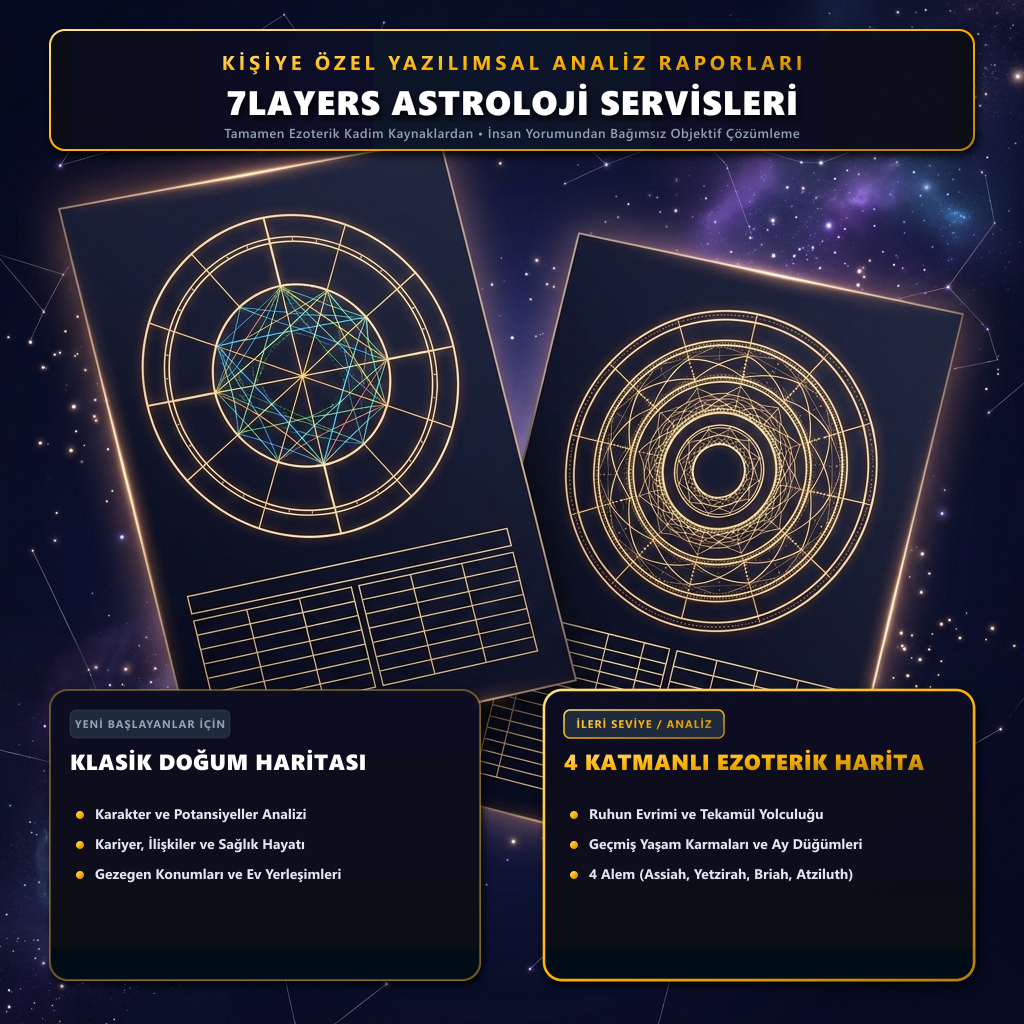
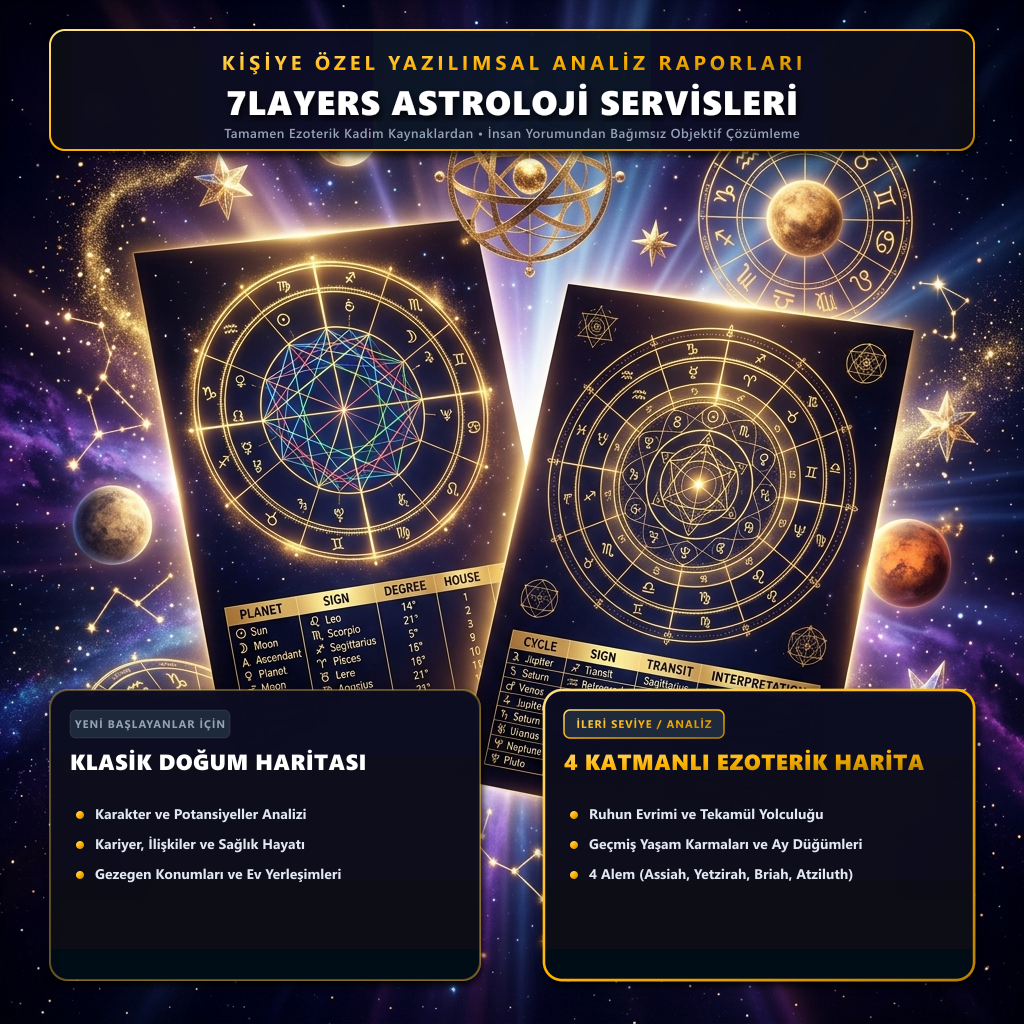
update: make ad visual background flashier and more astrologically rich with armillary spheres and holographic zodiacs

diff --git a/create_ad_overlay.js b/create_ad_overlay.js
@@ -1,7 +1,7 @@
 const sharp = require('sharp');
 const path = require('path');
 
-const bgPath = 'C:\\Users\\baha\\.gemini\\antigravity-ide\\brain\\aa884945-8be4-4b6c-af8f-16a831497c6f\\astro_real_pdf_comparative_bg_1787228433510.png';
+const bgPath = 'C:\\Users\\baha\\.gemini\\antigravity-ide\\brain\\aa884945-8be4-4b6c-af8f-16a831497c6f\\astro_flashy_pdf_comparative_bg_1787229883453.png';
 const outputPath = 'c:\\projeler\\7layers\\web\\public\\four_layer_astrology_ad.png';
 
 async function main() {
